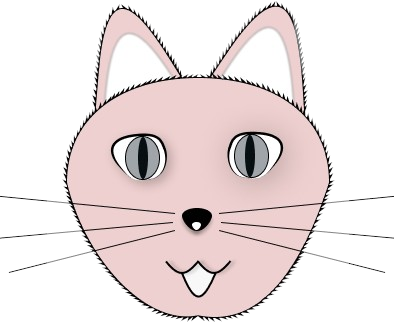
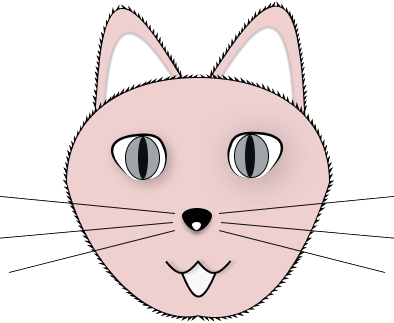
Update recipe page layout and animations for cat and paw interactions

diff --git a/style.css b/style.css
@@ -1161,25 +1161,27 @@ main{
 }
 
 
+
+.recipe-wrapper{
+    position:absolute;
+    top:0;
+    left:0;
+    width:140px;
+    height:140px;
+
+    overflow:hidden;
+
+    z-index:5;
+
+}
 .recipe-container{
     position:relative;
     overflow:hidden;
+    z-index: 20;
 
 }
 
 
-.recipe-wrapper{
-
-    position:absolute;
-    top:-25px;
-    left:25px;
-
-    width:150px;
-    height:150px;
-
-    z-index:999;
-
-}
 
 
 .paw-button{
@@ -1187,26 +1189,29 @@ main{
     cursor:pointer;
     position:absolute;
     z-index:30;
-    top:35px;
+    top:0px;
     left:32px;
-    z-index:1000;
+    z-index:50;
 
 }
 
 
 .recipe-cat{
     position:absolute;
-    width:120px;
+    width:110px;
 
-    left:0px;
+    left:160px;
 
-    top:0px;
+    top: -5px;
+    bottom:-110px;
 
-    transform:translateY(-80px);
+    transform:translateY(110px);
     transition:transform .45s ease;
 
     pointer-events: none;
-    z-index:999;
+    z-index:10;
+
+
 
 
 }

diff --git a/pages/recipe.html b/pages/recipe.html
@@ -41,24 +41,21 @@
 
             <div class="recipe-area">
 
+                <img src="../images/cat.png"
+                alt="Cat"
+                class="recipe-cat"
+                id="recipeCat">
+
             <div class="recipe-container">
 
-                <div class="recipe-wrapper">
+                <img src="../images/paw.png"
+                alt="Paw"
+                class="paw-button"
+                id="pawButton">
 
-            <img src="../images/cat.png"
-            alt="Cat"
-            class="recipe-cat"
-            id="recipeCat">
+                <audio id="recipeMeow"
+                src="../sounds/meow.mp3"></audio>
 
-            <img src="../images/paw.png"
-            alt="Paw"
-            class="paw-button"
-            id="pawButton">
-
-            <audio id="recipeMeow"
-            src="../sounds/meow.mp3"></audio>
-            
-        </div>
         
 
                 <label>Recipe Name</label>

diff --git a/script.js b/script.js
@@ -870,7 +870,7 @@ if (paw && recipeCat && recipeMeow) {
 
     paw.addEventListener("mouseenter", () => {
 
-        recipeCat.style.transform = "translateY(0)";
+        recipeCat.style.transform = "translateY(-180px)";
 
         recipeMeow.currentTime = 0;
         recipeMeow.play();
@@ -879,7 +879,7 @@ if (paw && recipeCat && recipeMeow) {
 
     paw.addEventListener("mouseleave", () => {
 
-        recipeCat.style.transform = "translateY(-80px)";
+        recipeCat.style.transform = "translateY(110px)";
 
     });
 
